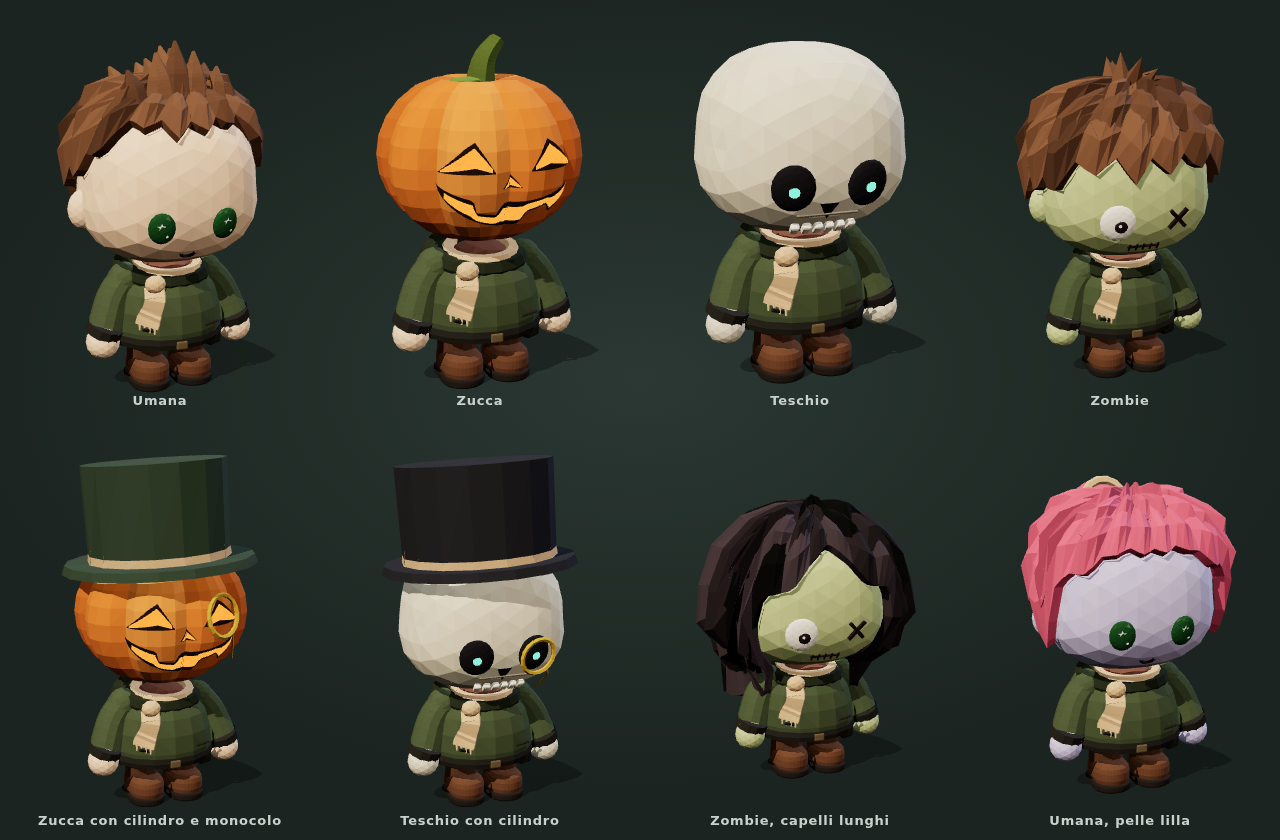
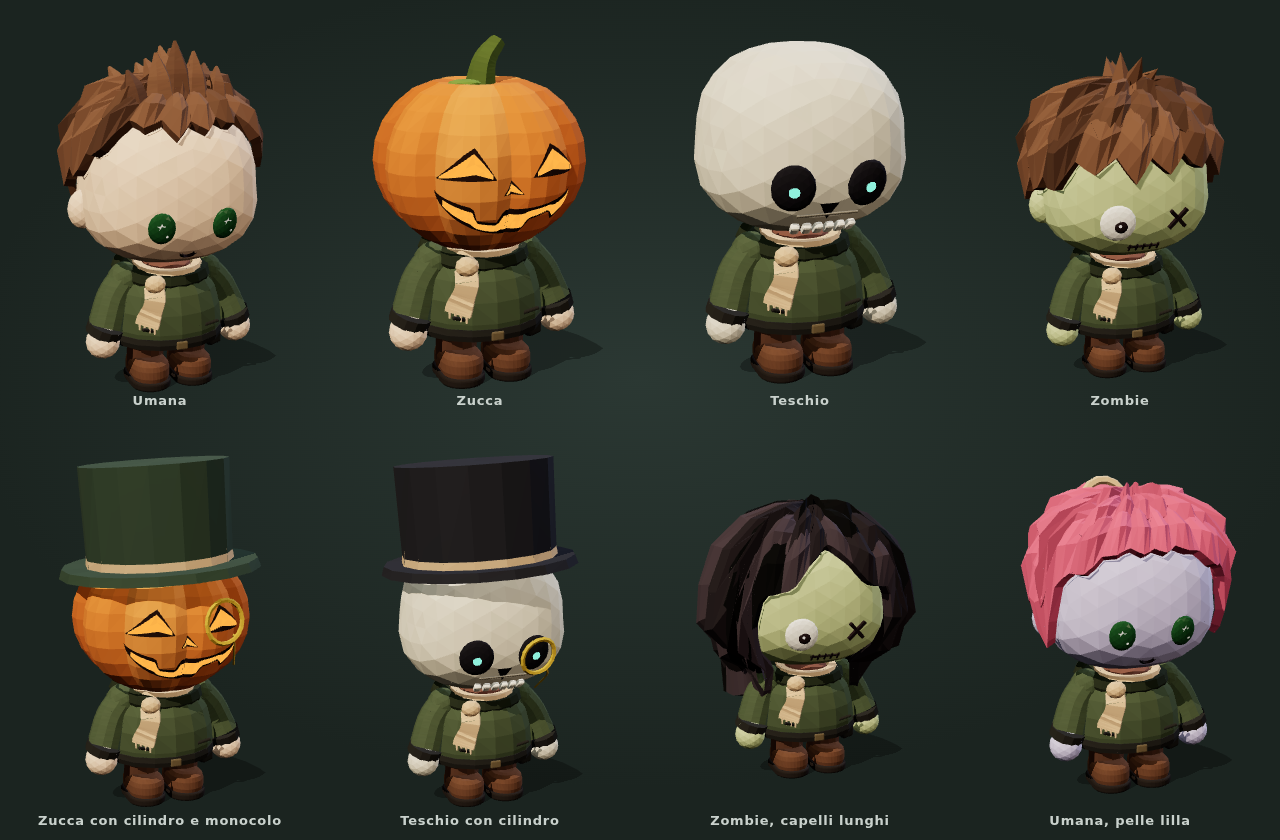
Zucca appoggiata al colletto; anteprima del personaggio a 360° e trascinabile
- La base della zucca affonda nel colletto come le altre teste (prima si
  vedeva il collo e sembrava staccata).
- L'anteprima della personalizzazione gira su sé stessa con un giro
  completo; trascinando in orizzontale la si gira a mano, e riparte dopo
  un attimo. Lo scorrimento verticale del pannello resta libero.

Claude-Session: https://claude.ai/code/session_01U6u5RojYrwYjZd8sSRU7em

Changed region(s): [[0.0312, 0.65, 0.2188, 0.9286], [0.2812, 0.1548, 0.4688, 0.4333], [0.3438, 0.0619, 0.4062, 0.1238]]

diff --git a/Prototype-3d/src/ui/customize.ts b/Prototype-3d/src/ui/customize.ts
@@ -1,6 +1,7 @@
 // Personalizzazione del Custode: anteprima 3D che gira e opzioni a tasselli
 // con la miniatura, divise in schede (Aspetto: testa, pelle, anche hoa-boa-hoa, occhi, occhiali;
 // Capelli: taglio, barba e baffi; Vestiti: vestito, cappello e colori).
+// L'anteprima gira su sé stessa e si può trascinare per girarla a mano.
 // Le scelte si vedono subito nell'anteprima; il Custode in gioco cambia con
 // «Salva» (chiudendo con modifiche non salvate si chiede conferma).
 
@@ -60,6 +61,10 @@ class CustodePreview {
   private rig: Rig | null = null;
   private raf = 0;
   private readonly clock = new THREE.Clock();
+  /** Gira da solo (giro completo); si può trascinare per girarlo a mano, poi riparte. */
+  private angle = 0.5;
+  private dragX: number | null = null;
+  private resumeAt = 0;
 
   constructor(look: CustodeLook) {
     this.renderer = new THREE.WebGLRenderer({ canvas: this.canvas, antialias: true, alpha: true });
@@ -76,11 +81,25 @@ class CustodePreview {
     this.camera.position.set(1.9, 1.75, 2.9);
     this.camera.lookAt(0, 0.68, 0);
     this.setLook(look);
+    const c = this.canvas;
+    c.addEventListener('pointerdown', (e) => { this.dragX = e.clientX; c.setPointerCapture(e.pointerId); });
+    c.addEventListener('pointermove', (e) => {
+      if (this.dragX === null) return;
+      this.angle += (e.clientX - this.dragX) * 0.012;
+      this.dragX = e.clientX;
+    });
+    const release = () => { this.dragX = null; this.resumeAt = this.clock.getElapsedTime() + 2.5; };
+    c.addEventListener('pointerup', release);
+    c.addEventListener('pointercancel', release);
+    let last = 0;
     const loop = () => {
       this.raf = requestAnimationFrame(loop);
-      const t = this.clock.getElapsedTime();
+      const t = this.clock.getElapsedTime(), dt = Math.min(0.1, t - last);
+      last = t;
+      // giro lento e continuo; fermo mentre lo si trascina e per un attimo dopo
+      if (this.dragX === null && t > this.resumeAt) this.angle += dt * 0.45;
       if (this.rig) {
-        this.rig.root.rotation.y = Math.sin(t * 0.6) * 0.9;
+        this.rig.root.rotation.y = this.angle;
         animateRig(this.rig, 'idle', t, 0);
       }
       this.renderer.render(this.scene, this.camera);

diff --git a/Prototype-3d/src/render/lowpoly/v2/custode.ts b/Prototype-3d/src/render/lowpoly/v2/custode.ts
@@ -379,11 +379,11 @@ function pumpkinAt(dir: THREE.Vector3): THREE.Vector3 {
   const lobe = Math.pow(Math.sin(Math.PI * w), 0.6);
   const soft = lerp(0.6, 1, smooth(25, 75, Math.abs(lon) / DEG));
   const rib = 1 - (1 - lobe) * 0.2 * soft * Math.pow(h, 0.6);
-  // un po' più larga che alta; sommità e base rientrano (fossetta del picciolo)
+  // un po' più larga che alta; la sommità rientra (fossetta del picciolo)
   const p = new THREE.Vector3(v.x * PUMPKIN_R.x * rib, v.y * PUMPKIN_R.y, v.z * PUMPKIN_R.z * rib);
   if (v.y > 0) p.y -= 0.05 * Math.exp(-((h / 0.35) ** 2));
-  else p.y += 0.03 * Math.exp(-((h / 0.3) ** 2));
-  p.y += PUMPKIN_R.y - R.y + 0.006; // la base poggia sul collo come il mento
+  // la base affonda un po' nel colletto come le altre teste (niente collo scoperto sotto)
+  p.y += PUMPKIN_R.y - R.y - 0.035;
   return p.add(C);
 }
 /** Semiassi della zucca (più larga della testa, quasi alta uguale). */

diff --git a/Prototype-3d/src/styles/main.css b/Prototype-3d/src/styles/main.css
@@ -277,7 +277,8 @@ button.slot:active, .icon-btn:active, .ctx-actions button:active, .big-btn:activ
   background: radial-gradient(ellipse 60% 75% at 50% 62%, #2d3a2a, rgba(22, 25, 32, 0) 100%), #161920;
   border-bottom: 2px solid #2b2418; box-shadow: 0 6px 8px -6px rgba(0, 0, 0, 0.7);
 }
-.look-preview { display: block; height: min(220px, 25vh); width: auto; aspect-ratio: 240 / 270; background: transparent; }
+.look-preview { display: block; height: min(220px, 25vh); width: auto; aspect-ratio: 240 / 270; background: transparent; cursor: grab; touch-action: pan-y; } /* trascinabile in orizzontale, lo scorrimento verticale resta alla pagina */
+.look-preview:active { cursor: grabbing; }
 .look-tabs { justify-self: stretch; justify-content: center; padding: 2px 10px 8px; }
 .look-sub { margin-top: 6px; }
 .look-foot > .big-btn { flex: 1; }
